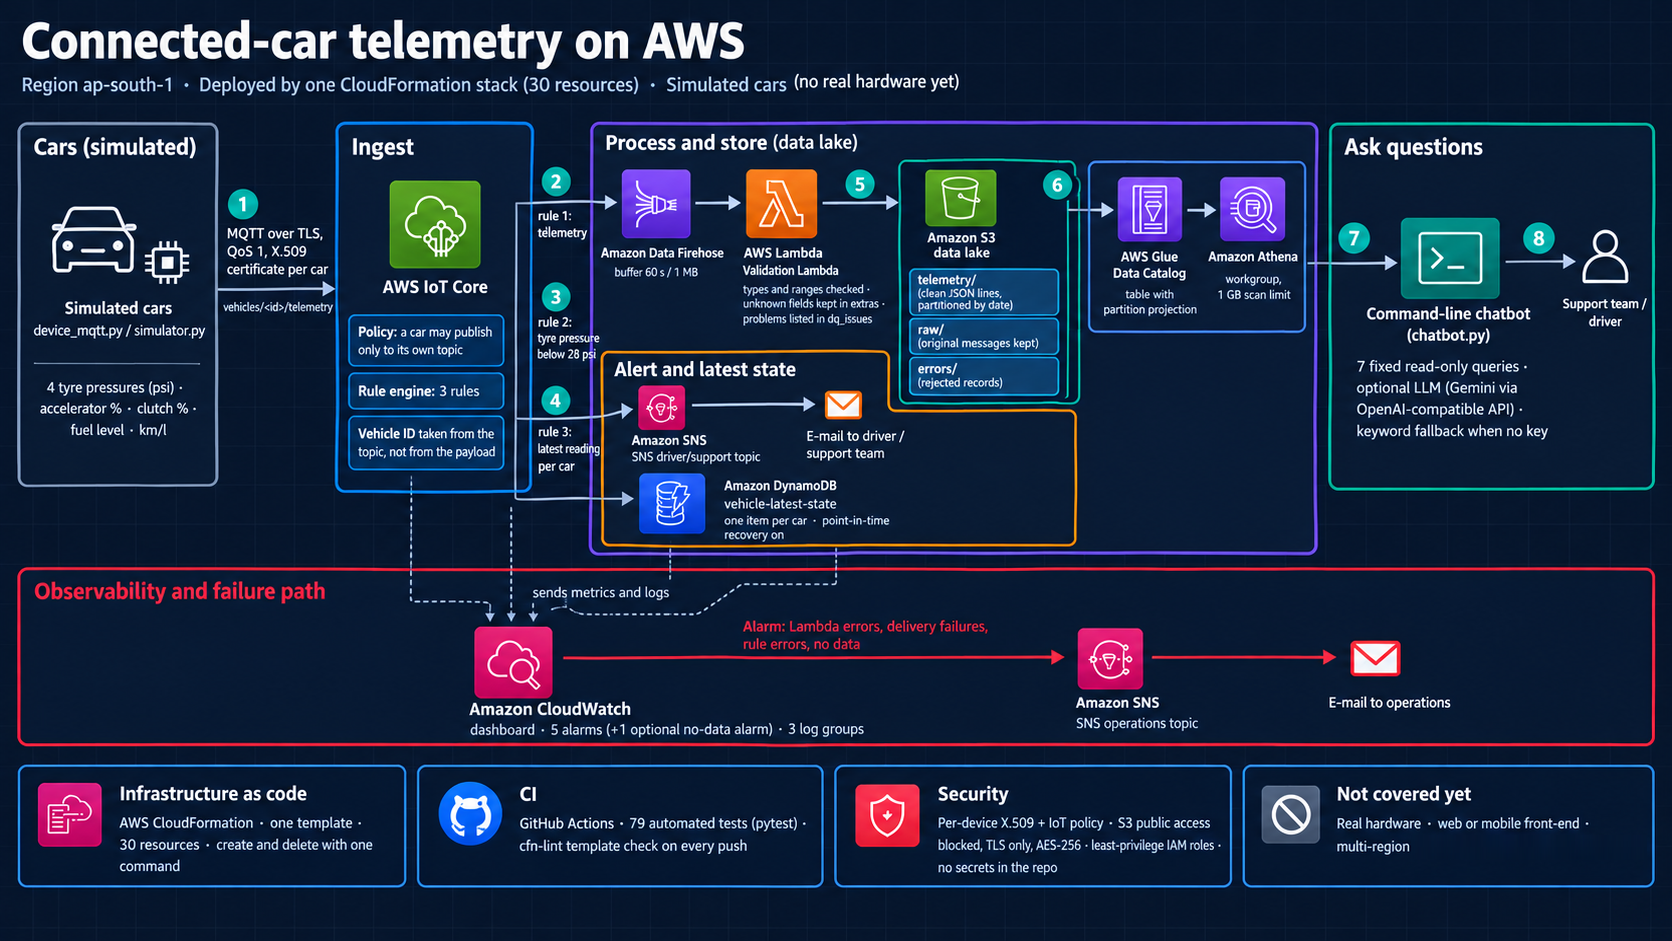
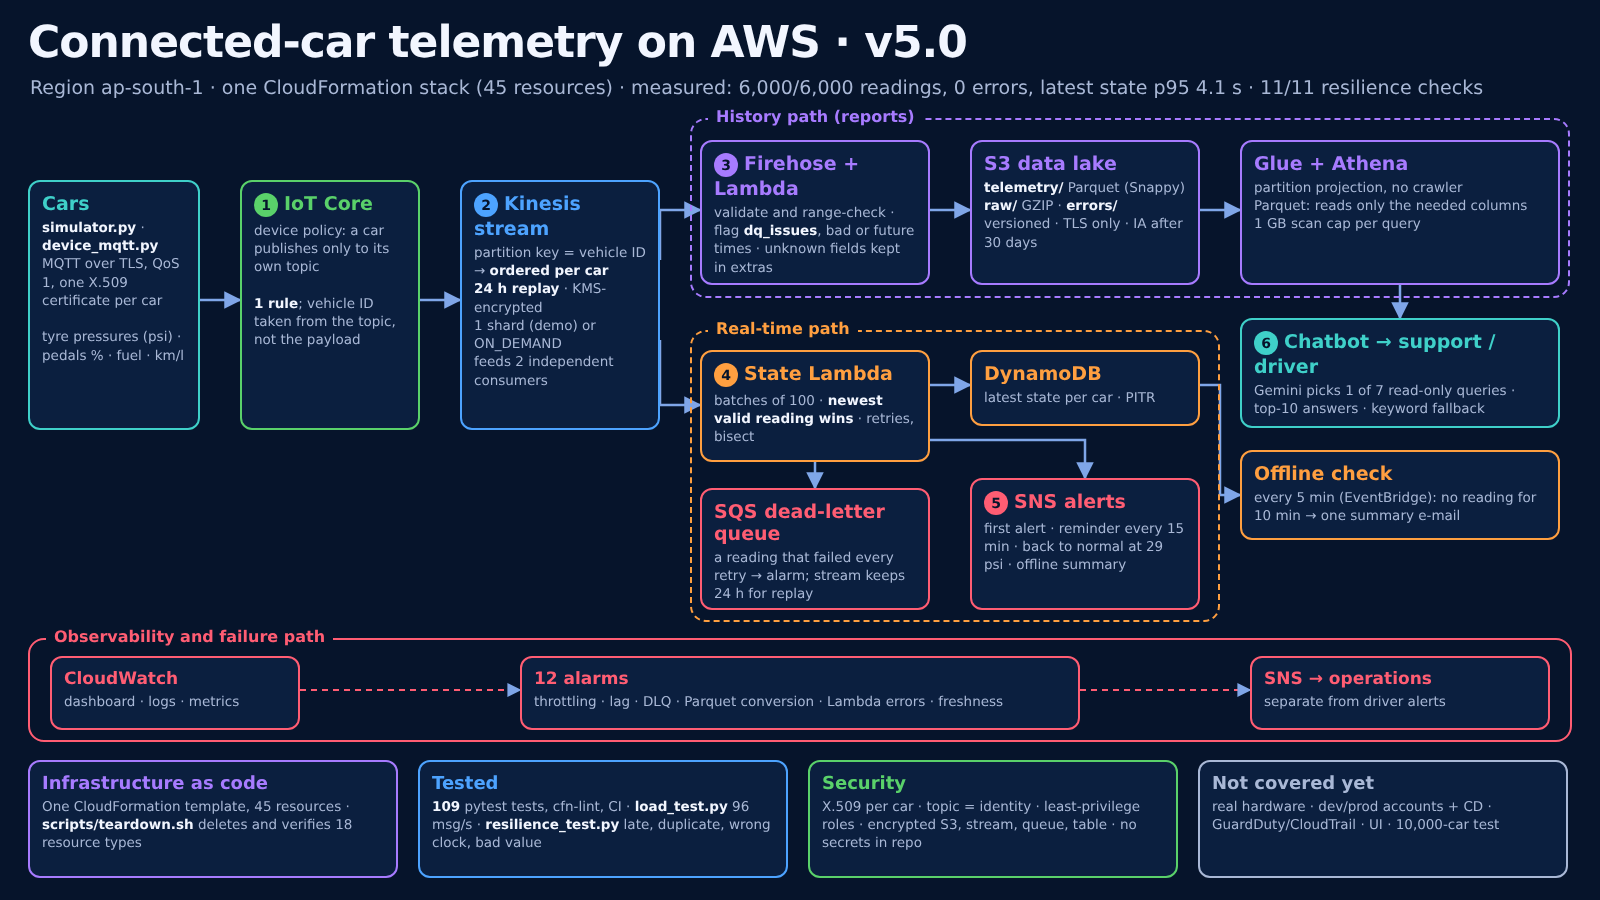
v5.0 architecture diagrams, old diagrams kept as (old), v5.0 screenshots

Changed region(s): [[0.0, 0.0, 1.0, 0.9644]]

diff --git a/README.md b/README.md
@@ -2,15 +2,15 @@
 
 Sensor data from connected cars flows into AWS, gets validated, and lands in queryable tables. The project adds low-tyre alerts, a real-time "latest state" view per car, operations monitoring, per-device security and a small AI chatbot that answers questions about the fleet.
 
-> **Status (v5.0, production upgrade):** the pipeline now runs on a production-style architecture: one IoT rule writes to an encrypted **Kinesis Data Stream**; Firehose reads the stream and lands **Parquet**; a **state Lambda** reads the same stream in batches and keeps the latest state per car (newest **valid** reading wins: late, duplicate, future-clock and impossible readings cannot corrupt it) and sends alerts with a cool-down, reminders and **hysteresis**; a scheduled check reports **offline** vehicles; failures retry, then land in a **dead-letter queue**; 12 alarms watch it. `load_test.py` measures throughput and latency, `resilience_test.py` proves the real-world cases on the live stack. See [docs/PERFORMANCE_SCALABILITY.md](docs/PERFORMANCE_SCALABILITY.md) for the current-vs-production analysis.
+> **Status (v5.0, production upgrade):** the pipeline now runs on a production-style architecture: one IoT rule writes to an encrypted **Kinesis Data Stream**; Firehose reads the stream and lands **Parquet**; a **state Lambda** reads the same stream in batches and keeps the latest state per car (newest **valid** reading wins: late, duplicate, future-clock and impossible readings cannot corrupt it) and sends alerts with a cool-down, reminders and **hysteresis**; a scheduled check reports **offline** vehicles; failures retry, then land in a **dead-letter queue**; 11 alarms watch it (12 with the optional no-data alarm). `load_test.py` measures throughput and latency, `resilience_test.py` proves the real-world cases on the live stack. See [docs/PERFORMANCE_SCALABILITY.md](docs/PERFORMANCE_SCALABILITY.md) for the current-vs-production analysis.
 >
 > Earlier status (v4.1): proof of concept with production-minded foundations. The sensors are **simulated** (`simulator.py`), and a real-device-style publisher (`device_mqtt.py`) uses X.509 certificates over MQTT. Everything on the AWS side is real and is created from one CloudFormation template. All data is synthetic.
 
 ### Architecture
 
-![Architecture diagram](screenshots/AWS_Architecture_Diagram-Default.png)
+![Architecture diagram v5.0](screenshots/AWS_Architecture_Diagram-Dark.png)
 
-*The architecture diagram was generated with AI (ChatGPT) from a written description of the deployed design, then checked by the author against `template.yaml` and corrected where the picture was wrong. `template.yaml` is the source of truth if it differs. The design follows published patterns; see [section 12](#12-design-basis-history-and-references).*
+*Architecture v5.0, drawn from `template.yaml` (light version: [AWS_Architecture_Diagram-Default.png](screenshots/AWS_Architecture_Diagram-Default.png)). The earlier v4.1 diagrams (three IoT rules) are kept as `AWS_Architecture_Diagram-Dark(old).png` and `AWS_Architecture_Diagram-Default(old).png`; they were generated with AI (ChatGPT) from a written description of the deployed design, then checked by the author against `template.yaml` and corrected where the picture was wrong. `template.yaml` is the source of truth if it differs. The design follows published patterns; see [section 12](#12-design-basis-history-and-references).*
 
 ## Contents
 1. [What it covers](#1-what-it-covers)
@@ -94,7 +94,7 @@ A reading from a device:
  "fuel_level_pct": 70.0, "fuel_efficiency_kmpl": 15.0}
 ```
 
-Table `vehicle_telemetry.telemetry` (JSON in S3):
+Table `vehicle_telemetry.telemetry` (Parquet in S3 since v5.0; JSON up to v4.1):
 
 | Column | Type | Notes |
 |---|---|---|
@@ -207,7 +207,8 @@ Every step lists **Expected** results and what to do **If not**. Take a screensh
 ### 0. Set up every new CloudShell session
 Upload the project zip with **Actions -> Upload file**, then:
 ```bash
-cd ~ && unzip -q -o <project zip> && cd vehicle-telemetry
+cd ~ && git clone https://github.com/Arjun-M-101/connected-car-telemetry-aws.git   # first time only
+cd ~/connected-car-telemetry-aws && git pull
 export AWS_REGION=ap-south-1 AWS_DEFAULT_REGION=ap-south-1
 pip install -q -r requirements.txt awsiotsdk        # no --user flag: CloudShell uses a virtual environment
 python3 -m pytest -q
@@ -316,7 +317,8 @@ If CAR-777 is listed, it is a stale item from a stack older than v4.1. Remove it
 The originals are still in `raw/` 📷:
 ```bash
 echo "${BUCKET:?run the BUCKET= line from step 1 first}"
-for K in $(aws s3 ls s3://$BUCKET/raw/ --recursive | tail -5 | awk '{print $4}'); do aws s3 cp s3://$BUCKET/$K - ; done | grep CAR-900 | grep -E '"flat"|-5' | head -3
+for K in $(aws s3 ls s3://$BUCKET/raw/ --recursive | tail -5 | awk '{print $4}'); do aws s3 cp s3://$BUCKET/$K - | gunzip; done \
+  | grep -oE '"tyre_fl_psi": ?"flat"|"tyre_rr_psi": ?-5' | head -3     # raw/ is GZIP since v5.0
 ```
 **Expected:** the original `"flat"` text and `-5`, which were set to null in the clean table.
 
@@ -410,7 +412,7 @@ Sends a late reading, a duplicate, a reading from a clock 2 hours ahead, an impo
 **If a check fails:** run it again once (the history check waits for Firehose); if it still fails, send the output.
 
 ### 9. Evidence checklist
-1 rule, Kinesis stream, 3 Lambdas, DLQ, resilience-test result, dashboard, alarm list, S3 `telemetry/` and `raw/`, row counts, DynamoDB changing, alert e-mail, 7-row drift result, CAR-777 count 0, `extras` query, raw original, operations alarm e-mails, S3 security outputs, PITR and device policy, device test positive and negative, chatbot keyword and LLM, `93 passed`, load-test result and dashboard, teardown verification.
+1 rule, Kinesis stream, 3 Lambdas, DLQ, resilience-test result, dashboard, alarm list, S3 `telemetry/` and `raw/`, row counts, DynamoDB changing, alert e-mail, 7-row drift result, CAR-777 count 0, `extras` query, raw original, operations alarm e-mails, S3 security outputs, PITR and device policy, device test positive and negative, chatbot keyword and LLM, `109 passed`, load-test result and dashboard, teardown verification.
 
 ### 10. Tear down and verify nothing is left
 One script does the whole tear-down. It needs nothing from earlier sessions: no `$BUCKET`, no `certs/` folder. If CloudShell times out half-way, open it again and run the same two lines; every step first checks what still exists.
@@ -420,14 +422,14 @@ bash scripts/teardown.sh
 ```
 Type `DELETE` when it asks. It then, in order:
 1. stops any `simulator.py` or `device_mqtt.py` still running in CloudShell;
-2. switches off the three IoT rules, so no new data arrives while it cleans up;
+2. switches off the IoT rule (three rules up to v4.1), so no new data arrives while it cleans up;
 3. asks AWS for **every** certificate attached to `vehicle-device-policy` or to a `CAR-NNN` thing (also old ones from earlier sessions), detaches, deactivates and deletes them, then deletes the things;
 4. waits 75 seconds so Firehose writes its last buffer **before** the bucket is emptied;
 5. finds the data bucket itself and empties it (objects, old versions, unfinished uploads);
 6. deletes the stack and prints its status every 15 seconds; on `DELETE_FAILED` it prints the reason, fixes it (devices, device policy, bucket) and tries again, up to 3 times;
-7. removes anything that can outlive the stack and the local `certs/` keys, then checks 15 resource types one by one.
+7. removes anything that can outlive the stack and the local `certs/` keys, then checks 18 resource types one by one (including the Kinesis stream, the EventBridge schedule and the SQS queue).
 
-**Expected (5 to 10 minutes):** `[OK] stack vehicle-telemetry deleted`, fifteen `[OK] ...: none` lines and `ALL CLEAN: nothing from vehicle-telemetry is left in ap-south-1.` 📷
+**Expected (5 to 10 minutes):** `[OK] stack vehicle-telemetry deleted`, eighteen `[OK] ...: none` lines and `ALL CLEAN: nothing from vehicle-telemetry is left in ap-south-1.` 📷
 **If not:** a `[LEFT]` line names what is still there. Run `bash scripts/teardown.sh` again after a few minutes (AWS can need up to 5 minutes after a certificate is detached before the policy can be deleted). To only check, without deleting anything: `bash scripts/teardown.sh --verify`.
 
 Then, outside AWS: delete the LLM API key in Google AI Studio, run `unset LLM_API_KEY LLM_MODEL`, and check Billing the next day. DynamoDB keeps a free system backup of the deleted table for 35 days; it costs nothing and expires by itself. To prove repeatability, deploy again from step 1, run steps 2 and 4, and tear down again.
@@ -437,7 +439,7 @@ Then, outside AWS: delete the LLM API key in Google AI Studio, run `unset LLM_AP
 |---|---|---|
 | `DeleteThing ... Cannot delete. Thing CAR-101 is still attached to one or more principals` | `provision_device.sh` ran twice for CAR-101 (14 and 19 Oct). The second run overwrote `certs/CAR-101/cert_arn.txt`, so `deprovision_device.sh` removed only the new certificate; the old one stayed attached to the thing **and** to `vehicle-device-policy` | `teardown.sh` and `deprovision_device.sh` ask AWS which certificates are attached; `provision_device.sh` refuses to add a second certificate |
 | `Invalid bucket name ""` on `aws s3 rm` | a new CloudShell session, so `$BUCKET` was empty and nothing was emptied | `teardown.sh` finds the bucket from the stack (or by name) |
-| `wait stack-delete-complete` printed nothing and was stopped with Ctrl+C; the check command printed nothing | the stack could not delete the non-empty bucket or the still-attached policy; the check filter did not include `DELETE_IN_PROGRESS`, so a running or stuck delete looked finished | status printed every 15 s, `DELETE_FAILED` explained and fixed, 15 resource types checked |
+| `wait stack-delete-complete` printed nothing and was stopped with Ctrl+C; the check command printed nothing | the stack could not delete the non-empty bucket or the still-attached policy; the check filter did not include `DELETE_IN_PROGRESS`, so a running or stuck delete looked finished | status printed every 15 s, `DELETE_FAILED` explained and fixed, 18 resource types checked |
 | `aws s3 ls` still showed the bucket after the stack was "gone" | same cause: the stack was in `DELETE_IN_PROGRESS`/`DELETE_FAILED`, not deleted | the final check shows `[LEFT] CloudFormation stack ... DELETE_FAILED` instead of an empty line |
 
 ## 10. Troubleshooting
@@ -490,13 +492,14 @@ The architecture combines patterns that AWS and the IoT community publish for de
 | Topic and identity | `vehicles/<id>/telemetry`, vehicle id read with `topic(2)` | put the thing name in every device topic; topic function and policy variables make the topic the trusted identity [4][5][6] |
 | History (cold path) | IoT rule -> Firehose -> S3 -> Glue table -> Athena | published AWS IoT analytics pattern; the AWS Connected Vehicle Solution also landed raw vehicle data in S3 through Firehose [7][8][9] |
 | Table | Glue table in the template with partition projection, no crawler | no crawler or partition maintenance; types cannot change by accident [10] |
-| Latest state (hot path) | third IoT rule writes one item per car to DynamoDB | fast "latest" view next to the full history (batch and speed split); AWS connected-vehicle guidance keeps vehicle state in DynamoDB; Device Shadow considered [2][11][12] |
+| Latest state (hot path) | v5.0: state Lambda reads the Kinesis stream and keeps the newest valid reading per car in DynamoDB (v4.1: a third IoT rule) | fast "latest" view next to the full history (batch and speed split); AWS connected-vehicle guidance keeps vehicle state in DynamoDB; Device Shadow considered [2][11][12] |
 | Imperfect data | validation Lambda in Firehose, raw copy, `extras`, `dq_issues`, no automatic schema change | Firehose transformation; land raw data first and never edit it; reviewed schema evolution, schema registry later [13][14][15][16] |
 | Sensor fields | tyre pressures, pedals, speed, fuel level, km/l | fuel level, accelerator and speed are standard OBD-II PIDs; tyre pressure comes from the TPMS; VSS is the standard signal catalogue [17][18][19] |
 | Low-tyre alert | SNS e-mail below 28 psi (parameter `LowTyrePsi`) | TPMS regulations warn at 25% below the recommended pressure (US FMVSS 138; India AIS-154) [20][21][22] |
 | AI chatbot | LLM picks one of 7 fixed read-only queries, never writes SQL | OWASP Top 10 for LLM applications: prompt injection and excessive agency [23] |
 | Operations and security | dashboard, alarms, logs, least privilege, TLS-only encrypted bucket, PITR | Well-Architected IoT Lens and service security best practices [24][25] |
-| Not used | AWS IoT FleetWise, Kinesis Data Streams, MSK, Flink | FleetWise is closed to new customers; AWS points to Connected Mobility guidance, which uses MSK and Flink for fleet scale [26][19] |
+| Buffer (v5.0) | IoT rule -> Kinesis Data Streams, partition key = vehicle id; Firehose and the state Lambda read it | ordered, replayable buffer with several consumers; Lambda with Kinesis (batching, bisect, on-failure destination); see docs/PERFORMANCE_SCALABILITY.md |
+| Not used | AWS IoT FleetWise, MSK, Flink | FleetWise is closed to new customers; MSK needs a VPC destination and an always-on cluster; Flink is the next step for fleet-scale stream analytics [26][19] |
 
 ### How the project evolved
 | Version | Trigger | What changed | Tests |
@@ -550,7 +553,29 @@ Evidence from real runs in my own AWS account (region ap-south-1). All data is s
 
 ```
 screenshots/
-├── AWS_Architecture_Diagram-Default.png   architecture diagram (AI-generated, author-checked)
+├── AWS_Architecture_Diagram-Dark.png      architecture diagram v5.0, dark (drawn from template.yaml; shown at the top)
+├── AWS_Architecture_Diagram-Default.png   architecture diagram v5.0, light
+├── AWS_Architecture_Diagram-Dark(old).png     v4.1 diagram, dark (AI-generated, author-checked; three IoT rules)
+├── AWS_Architecture_Diagram-Default(old).png  v4.1 diagram, light
+├── v5-pytest-and-deploy.png                                   # v5.0: tests (108 at commit b31e1f5; 109 after the last commit), cfn-lint, stack update
+├── v5-iot-rules-one-rule.png                                  # v5.0: one IoT rule, vehicle_telemetry_ingest
+├── v5-kinesis-data-stream.png                                 # v5.0: Kinesis data stream vehicle-telemetry-stream, Active
+├── v5-lambda-three-functions.png                              # v5.0: transform, state and offline-check Lambdas
+├── v5-sqs-dead-letter-queue.png                               # v5.0: dead-letter queue, 0 messages
+├── v5-cloudwatch-11-alarms-ok.png                             # v5.0: 11 alarms, all OK
+├── v5-athena-row-count-schema-version.png                     # v5.0: rows per car from the Parquet table
+├── v5-athena-lowest-tyre.png                                  # v5.0: lowest tyre pressure per car
+├── v5-athena-fuel-efficiency.png                              # v5.0: fuel efficiency per car
+├── v5-athena-car900-drift-result.png                          # v5.0: the seven CAR-900 events with dq_issues and extras
+├── v5-athena-car777-count-zero.png                            # v5.0: claimed id CAR-777 never stored
+├── v5-athena-extras-battery-v.png                             # v5.0: new field battery_v read from extras
+├── v5-dynamodb-cli-scans.png                                  # v5.0: latest state moving forward
+├── v5-sns-low-tyre-alert-car001.png                           # v5.0: ONE low-tyre e-mail for the leak run
+├── v5-sns-rt002-low-and-recovered.png                         # v5.0: resilience test, low tyre then back to normal (hysteresis)
+├── v5-load-test-result.png                                    # v5.0: 6,000 of 6,000, 0 errors, end-to-end p95 4.1 s
+├── v5-resilience-test-11-passed.png                           # v5.0: 11 of 11 resilience checks passed
+├── v5-chatbot-gemini-answers.png                              # v5.0: chatbot with Gemini (lowest tyre, injection attempt)
+├── v5-teardown-all-clean.png                                  # v5.0: teardown.sh, ALL CLEAN with 18 checks
 ├── iam-roles-list.png                                         # IAM console: the three stack service roles (Firehose, IoT rule, Lambda)
 ├── s3-data-bucket-console.png                                 # S3 console: the single data bucket in ap-south-1
 ├── s3-telemetry-first-object-listing-v3.png                   # first telemetry object after the 5-batch smoke test (v3 run)
@@ -631,7 +656,49 @@ screenshots/
 └── bedrock-validation-exception.png                           # Bedrock ValidationException (why the LLM option is OpenAI-compatible)
 ```
 
-### Deployment, tests and CI
+### v5.0 production upgrade (live run, 19 October 2026)
+
+One rule into a Kinesis stream, three Lambdas, a dead-letter queue and 11 alarms; measured with the load and resilience tests.
+
+![v5.0 tests and deploy](screenshots/v5-pytest-and-deploy.png)
+
+![v5.0 one IoT rule](screenshots/v5-iot-rules-one-rule.png)
+
+![v5.0 Kinesis data stream](screenshots/v5-kinesis-data-stream.png)
+
+![v5.0 three Lambda functions](screenshots/v5-lambda-three-functions.png)
+
+![v5.0 dead-letter queue](screenshots/v5-sqs-dead-letter-queue.png)
+
+![v5.0 11 alarms OK](screenshots/v5-cloudwatch-11-alarms-ok.png)
+
+![v5.0 load test result](screenshots/v5-load-test-result.png)
+
+![v5.0 resilience test, 11 of 11 passed](screenshots/v5-resilience-test-11-passed.png)
+
+![v5.0 one low-tyre alert](screenshots/v5-sns-low-tyre-alert-car001.png)
+
+![v5.0 low tyre then back to normal](screenshots/v5-sns-rt002-low-and-recovered.png)
+
+![v5.0 DynamoDB latest state](screenshots/v5-dynamodb-cli-scans.png)
+
+![v5.0 Athena rows per car](screenshots/v5-athena-row-count-schema-version.png)
+
+![v5.0 Athena lowest tyre](screenshots/v5-athena-lowest-tyre.png)
+
+![v5.0 Athena fuel efficiency](screenshots/v5-athena-fuel-efficiency.png)
+
+![v5.0 CAR-900 drift result](screenshots/v5-athena-car900-drift-result.png)
+
+![v5.0 CAR-777 count zero](screenshots/v5-athena-car777-count-zero.png)
+
+![v5.0 battery_v from extras](screenshots/v5-athena-extras-battery-v.png)
+
+![v5.0 chatbot with Gemini](screenshots/v5-chatbot-gemini-answers.png)
+
+![v5.0 tear-down ALL CLEAN](screenshots/v5-teardown-all-clean.png)
+
+### Deployment, tests and CI (v4.1)
 
 The v4.1 package passes its 79 tests and cfn-lint, is deployed as an update of the same stack, and CI is green on the v4.1 commits.
 
@@ -645,7 +712,7 @@ The v4.1 package passes its 79 tests and cfn-lint, is deployed as an update of t
 
 ### Ingestion: IoT Core rules and Firehose
 
-Three active topic rules on `vehicles/+/telemetry`; every rule takes the vehicle ID from the topic (`topic(2) AS vehicle_id`, v4.1).
+v4.1 run: three active topic rules on `vehicles/+/telemetry` (v5.0 has one rule with a Kinesis action); every rule takes the vehicle ID from the topic (`topic(2) AS vehicle_id`, v4.1).
 
 ![MQTT test client subscribed to vehicles/+/telemetry](screenshots/mqtt-test-client-subscribe.png)
 
@@ -707,7 +774,7 @@ Low-tyre alert e-mails, the second SNS topic for operations alarms, a real no-da
 
 ### Real-time latest state in DynamoDB
 
-One item per car, overwritten on every reading.
+One item per car (v4.1 run: overwritten on every reading; since v5.0 only by a newer valid reading).
 
 ![DynamoDB items, first scan, one per car](screenshots/dynamodb-items-first-scan.png)
 
